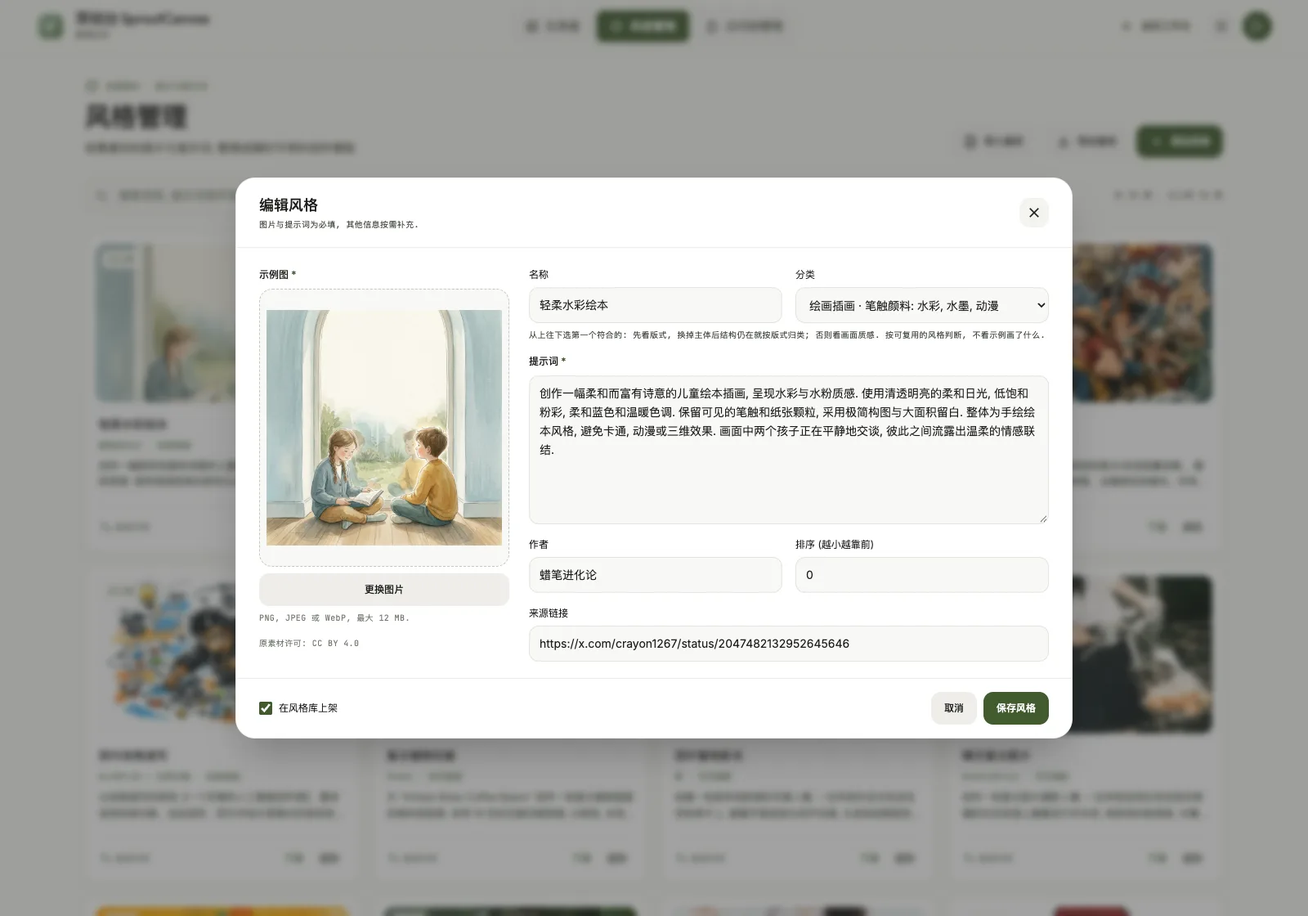
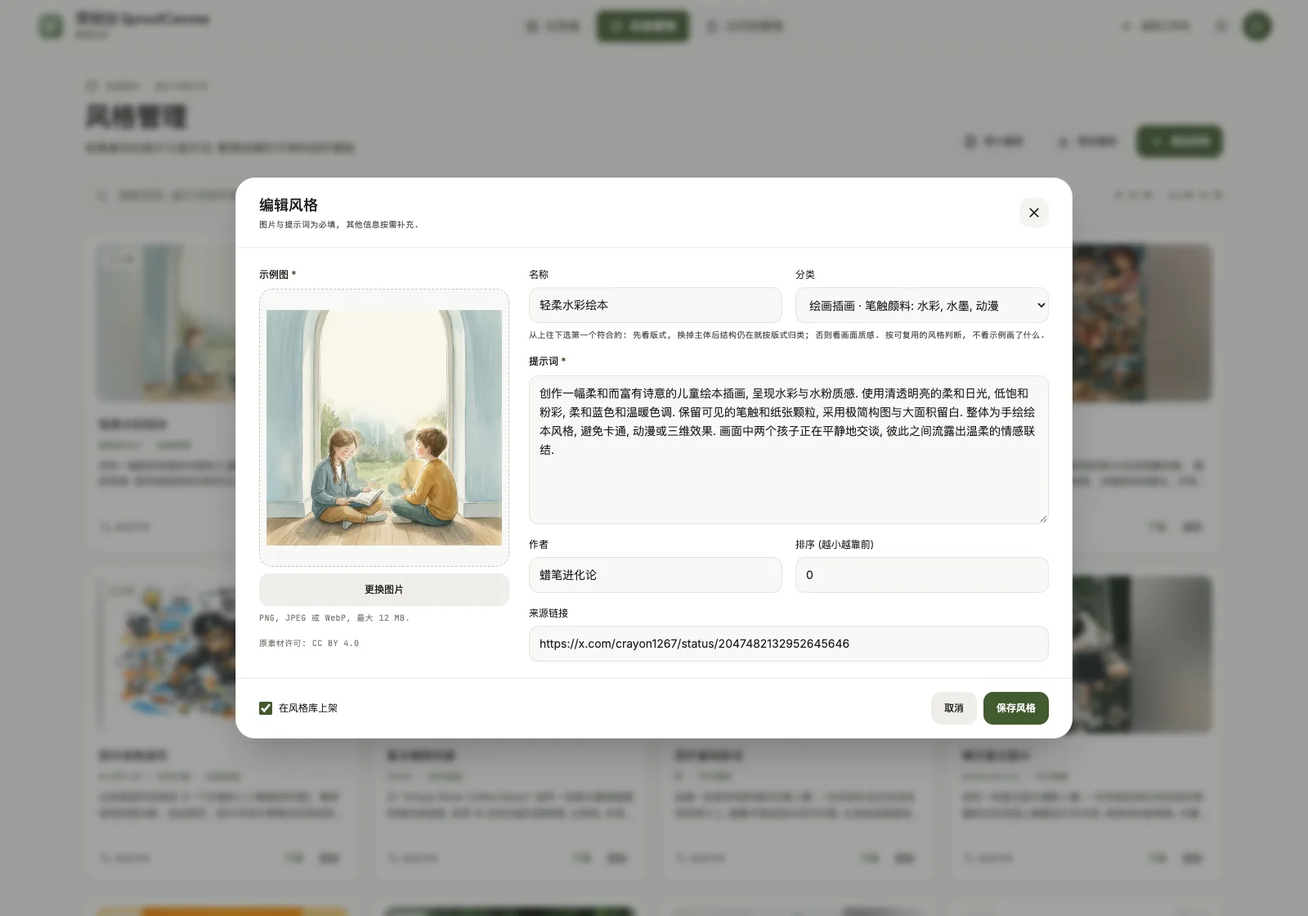
feat: 风格示例图完整显示, 发送单图按示例图匹配画幅
- 风格库与后台卡片保留固定图框, 示例图完整居中且不超过原尺寸, 空白处用同图模糊铺底, 不再裁切或放大
- 发送单图时按示例图宽高选当前通道支持的最接近画幅, 保留尺寸档位并同步请求尺寸, 提示可修改
- 同步帮助文案, 项目约束与文档, 新增竖图显示和画幅匹配的浏览器断言, 重拍 README 风格三图

diff --git a/src/components/shell/HelpDialog.tsx b/src/components/shell/HelpDialog.tsx
@@ -15,7 +15,7 @@ export function HelpDialog({ open, onClose }: { open: boolean; onClose: () => vo
     <div ref={ref} role="dialog" aria-modal="true" aria-label="工作台帮助" className="w-full max-w-2xl max-h-[85vh] overflow-y-auto rounded-2xl bg-surface p-space-lg shadow-xl" onClick={(event) => event.stopPropagation()}>
       <div className="flex items-center justify-between mb-space-lg"><h2 className="font-headline-lg text-headline-lg">工作台帮助</h2><button type="button" aria-label="关闭帮助" onClick={onClose} className="w-8 h-8 rounded-lg hover:bg-surface-container"><StitchIcon name="close" size={20} /></button></div>
       <div className="space-y-space-md text-body-sm leading-relaxed">
-        <section><h3 className="font-medium mb-1">创作与下载</h3><p>描述画面, 或从风格库载入完整提示词后修改. 已选模板会展示示例图与名称, 移除模板关联会保留当前文案. 可多选上传最多 4 张参考图, 单张不超过 12 MiB, 在提示词中按图 1, 图 2 说明用途. 已有图片可继续添加, 或逐张更换和移除. 也可拖入图片或按 ⌘/Ctrl + V 粘贴, 图片按顺序追加到空余位置, 不会覆盖已有素材; 超出数量时整批不添加并提示剩余位置. 按 ⌘/Ctrl + Enter 提交. 文生图和参考图生成可一次生成 1, 2 或 4 张, 队列会逐张执行, 按输出张数使用灵感点.</p></section>
+        <section><h3 className="font-medium mb-1">创作与下载</h3><p>描述画面, 或从风格库载入完整提示词后修改. 已选模板会展示示例图与名称, 画幅自动设为与示例图最接近的比例, 可再修改; 移除模板关联会保留当前文案和画幅. 可多选上传最多 4 张参考图, 单张不超过 12 MiB, 在提示词中按图 1, 图 2 说明用途. 已有图片可继续添加, 或逐张更换和移除. 也可拖入图片或按 ⌘/Ctrl + V 粘贴, 图片按顺序追加到空余位置, 不会覆盖已有素材; 超出数量时整批不添加并提示剩余位置. 按 ⌘/Ctrl + Enter 提交. 文生图和参考图生成可一次生成 1, 2 或 4 张, 队列会逐张执行, 按输出张数使用灵感点.</p></section>
         <section><h3 className="font-medium mb-1">提示词润色</h3><p>短句会补足可画的场景, 构图和光线, 完整提示词只整理表达. 人名, 品牌, 地名, 画面文字和占位符会保留. 完成后请检查内容, 可点击撤销润色回到原文, 再点击恢复润色找回结果, 两边的手工修改都会保留. 当前草稿保存最近一次润色的前后版本, 刷新后仍可切换. 撤销和恢复不消耗灵感点, 已成功的润色不会因撤销退点.</p></section>
         <section><h3 className="font-medium mb-1">局部重绘</h3><p>在作品上选择局部重绘, 自动继承原作品的画幅, 质量与格式. 多图参考时固定编辑第 1 张图片, 其他参考图会保留在草稿中, 不参与本次编辑, 切回参考图生成后恢复. 涂抹需要修改的区域并填写修改要求, 保存蒙版后点击开始局部重绘. 每次生成一个新版本, 原图保留. 如需调整画幅或风格, 切换参考图生成. 清空蒙版会阻止编辑提交, 未涂抹区域仍可能存在模型生成的细节变化.</p></section>
         <section><h3 className="font-medium mb-1">灵感点与访问码</h3><p>有限额度下, 生成图片, 润色提示词和拆解分镜都会使用灵感点, 每次消耗以操作按钮上的点数为准. 提交时先占用点数, 成功后扣除; 明确失败或在开始前取消会返还. 结果暂不明确时同样返还, 但不会自动重新提交, 需要时可手动重新生成.</p><p className="mt-2">共用同一个访问码的人共享名称和余额, 各自浏览器的任务独立. 无限额度不扣减余额, 只在顶部显示无限灵感点, 操作按钮不再重复标注. 用户菜单可查看访问名称, 切换外观和退出当前登录, 退出不会影响其他使用者.</p></section>

diff --git a/src/pages/StyleAdmin.tsx b/src/pages/StyleAdmin.tsx
@@ -1,5 +1,6 @@
 import { useEffect, useRef, useState, type ClipboardEvent, type FormEvent } from 'react';
 import { StitchIcon } from '../components/ui/StitchIcon';
+import { StyleExampleImage } from '../components/image/StyleExampleImage';
 import { AdminEmpty, AdminHeading, AdminLoading, adminButton, adminField, adminPanel } from '../components/admin/AdminUI';
 import { useFocusTrap } from '../hooks/useFocusTrap';
 import { useStyleCatalog } from '../hooks/useStyleCatalog';
@@ -111,7 +112,7 @@ export function StyleManager({ active, editStyleId, onStyleOpened }: { active: b
       {catalog.loading && <AdminLoading label="正在读取风格..." />}
       <div className="grid grid-cols-1 sm:grid-cols-2 lg:grid-cols-3 xl:grid-cols-4 gap-4">
         {items.map((style) => <article key={style.id} className={`admin-style-card relative group ${adminPanel} p-3 flex flex-col hover:border-primary/50 transition-colors`}>
-          <div className="relative aspect-[16/10] shrink-0 rounded-xl overflow-hidden bg-surface-container-low"><img src={style.image} alt={style.name} loading="lazy" className="w-full h-full object-cover group-hover:scale-[1.02] transition-transform duration-200" /><span className="absolute top-2 left-2 px-2 py-1 rounded-lg bg-surface-bright/95 text-secondary font-meta-sm text-meta-sm">{style.published ? '已上架' : '未上架'}</span></div>
+          <div className="relative aspect-[16/10] shrink-0 rounded-xl overflow-hidden bg-surface-container-low"><StyleExampleImage src={style.image} alt={style.name} className="group-hover:scale-[1.02] transition-transform duration-200" /><span className="absolute top-2 left-2 px-2 py-1 rounded-lg bg-surface-bright/95 text-secondary font-meta-sm text-meta-sm">{style.published ? '已上架' : '未上架'}</span></div>
           <div className="min-w-0 flex-1 flex flex-col gap-2 px-1 pt-4"><h2 className="font-body-md text-body-md font-medium line-clamp-2 break-words">{style.name}</h2><p className="font-meta-sm text-meta-sm text-secondary truncate">{style.author || '未注明作者'} · {style.category || '未分类'}</p><p className="font-body-sm text-body-sm text-on-surface-variant line-clamp-2 break-words leading-relaxed mb-3">{style.prompt}</p>
             <div className="flex items-center justify-between gap-2 font-body-sm text-body-sm pt-2 mt-auto border-t border-outline-variant/25"><span className="inline-flex items-center gap-1 text-outline font-meta-sm text-meta-sm"><StitchIcon name="edit_note" size={16} />编辑详情</span><div className="flex items-center gap-1">
               <button type="button" className="relative z-10 px-2 py-2 rounded-lg text-primary hover:bg-secondary-container/50 disabled:opacity-50" disabled={working} onClick={() => void run(async () => { await saveStyle({ ...editInput(style), published: !style.published }, style.id); await catalog.refresh(); setMessage(style.published ? '已下架, 风格库不再展示这条内容' : '已上架'); })}>{style.published ? '下架' : '上架'}</button>

diff --git a/src/pages/StitchCreativeStudio.tsx b/src/pages/StitchCreativeStudio.tsx
@@ -112,8 +112,14 @@ export function CreativeStudio({ onOpenStyles, onOpenGallery, onSubmitBatch, onC
       const transfer = await readWorkspaceDraft<StudioDraft>('studio-transfer');
       if (!alive) return;
       const draft = { ...stored, ...transfer, promptHistory: transfer ? null : readPromptHistory(stored?.promptHistory) };
+      const transferConfig = { ...stored?.config, ...transfer?.config };
+      // A template sets the aspect ratio only; the request size follows it at the size tier the user already chose.
+      if (transfer?.config?.aspectRatio) {
+        const size = resolveSize(transfer.config.aspectRatio, transferConfig.sizeTier || '1K');
+        Object.assign(transferConfig, { requestSize: size.size, sizeHint: size.hint });
+      }
       if (draft.config) setConfig((current) => {
-        const next = { ...current, ...stored?.config, ...transfer?.config, prompt: transfer?.config?.prompt ?? stored?.config?.prompt ?? current.prompt };
+        const next = { ...current, ...stored?.config, ...transferConfig, prompt: transfer?.config?.prompt ?? stored?.config?.prompt ?? current.prompt };
         if (LOCK_UNSUPPORTED_IMAGE_OPTIONS && next.mode !== 'edit') Object.assign(next, LOCKED_IMAGE_DEFAULTS);
         return next;
       });
@@ -128,12 +134,12 @@ export function CreativeStudio({ onOpenStyles, onOpenGallery, onSubmitBatch, onC
       const transferredStyle = transfer?.styleId && transfer.styleId !== 'default' ? transfer.styleName || '提示词模板' : '';
       if (transferredStyle) setMaskEditorOpen(false);
       if (transfer) {
-        await writeWorkspaceDraft('studio', { ...draft, config: { ...stored?.config, ...transfer.config } });
+        await writeWorkspaceDraft('studio', { ...draft, config: transferConfig });
         await writeWorkspaceDraft('studio-transfer', undefined);
       }
       if (alive) {
         setDraftLoaded(true);
-        if (transferredStyle) pushToast('success', `已载入 ${transferredStyle}, 可修改后开始绘制`);
+        if (transferredStyle) pushToast('success', `已载入 ${transferredStyle}, ${transfer?.config?.aspectRatio ? `画幅已按示例图设为 ${transfer.config.aspectRatio}, ` : ''}可修改后开始绘制`);
       }
     })().catch((error) => { if (alive) { setDraftLoaded(true); pushToast('error', error instanceof Error ? error.message : '草稿读取失败'); } });
     return () => { alive = false; };

diff --git a/src/pages/StitchStylesLibrary.tsx b/src/pages/StitchStylesLibrary.tsx
@@ -2,6 +2,7 @@ import { useEffect, useMemo, useRef, useState } from 'react';
 import { useFocusTrap } from '../hooks/useFocusTrap';
 import { useStyleCatalog } from '../hooks/useStyleCatalog';
 import { StitchIcon } from '../components/ui/StitchIcon';
+import { StyleExampleImage } from '../components/image/StyleExampleImage';
 import type { StyleRecord } from '../../shared/style-contract.mjs';
 
 interface StylesLibraryProps {
@@ -84,7 +85,7 @@ export function StylesLibrary({ onUseInStudio }: StylesLibraryProps) {
       <div className={`grid ${compact ? 'grid-cols-2 gap-3 lg:grid-cols-3 lg:gap-space-lg xl:grid-cols-4' : 'grid-cols-1 gap-space-lg sm:grid-cols-2 lg:grid-cols-3'}`}>
         {filtered.map((style) => <article key={style.id} className={`style-card group flex flex-col bg-surface-container-lowest border border-outline-variant/30 rounded-2xl shadow-[0_4px_20px_rgba(85,95,75,0.05)] ${compact ? 'p-3 lg:p-space-md' : 'p-space-md'}`}>
           <button type="button" aria-label={`放大 ${style.name}`} className={`relative w-full aspect-[4/3] overflow-hidden rounded-xl bg-surface-container-low text-left ${compact ? 'mb-3 lg:mb-4' : 'mb-4'}`} onClick={() => setDetail(style)}>
-            <img src={style.image} alt={style.name} loading="lazy" className="w-full h-full object-cover transition-transform duration-300 group-hover:scale-[1.02]" />
+            <StyleExampleImage src={style.image} alt={style.name} className="transition-transform duration-300 group-hover:scale-[1.02]" />
             <span className="absolute top-3 left-3 px-2 py-1 rounded-lg bg-surface-bright/95 text-secondary font-meta-sm text-meta-sm">{style.category || '未分类'}</span>
           </button>
           <h3 className="font-headline-sm text-headline-sm text-on-surface truncate" title={style.name}>{style.name}</h3>

diff --git a/src/app/App.tsx b/src/app/App.tsx
@@ -20,7 +20,7 @@ import { recordReference, writeWorkspaceDraft } from '../lib/storage/gallery-db'
 import { recipeDraft, sourceImageDraft, styleTemplateSnapshot, type StudioDraft } from '../lib/image/recipe';
 import type { StyleRecord } from '../../shared/style-contract.mjs';
 import { GENERATION_DEFAULTS } from '../../shared/generation-contract.mjs';
-import { sizePreset, resolveSize } from '../lib/api/generation';
+import { nearestAspect, sizePreset, resolveSize } from '../lib/api/generation';
 import { randomId } from '../lib/random/id';
 import type { SeriesCard } from '../lib/image/gallery';
 import { isQueueActive } from '../lib/queue-presentation';
@@ -108,14 +108,16 @@ export function App() {
   }, [setPage]);
 
   const useStyle = useCallback(async (style: StyleRecord) => {
+    // Match the frame to the example; standard ratios stay safe until the channel capabilities have loaded.
+    const aspectRatio = nearestAspect(style.imageWidth, style.imageHeight, serverConfig?.imageCapabilities?.customSizes ?? false);
     const draft: StudioDraft = {
-      config: { mode: 'text', prompt: style.prompt, imageCount: 1, refImages: [] },
+      config: { mode: 'text', prompt: style.prompt, imageCount: 1, refImages: [], ...(aspectRatio ? { aspectRatio } : {}) },
       styleId: style.id, styleName: style.name, styleTemplate: styleTemplateSnapshot(style), refImage: null, sourceRecord: null, mask: null, maskDataUrl: '', tone: 'none',
     };
     await writeWorkspaceDraft('studio-transfer', draft);
     setStudioRevision((value) => value + 1);
     setPage('studio');
-  }, [setPage]);
+  }, [setPage, serverConfig]);
 
   const deriveSeries = useCallback(async (card: SeriesCard) => {
     try {

diff --git a/src/lib/api/generation.ts b/src/lib/api/generation.ts
@@ -48,6 +48,14 @@ export function resolveSize(aspectRatio: string, sizeTier: ImageSizeTier = '1K')
 /** Aspect ratios a channel without custom sizes can produce. */
 export const STANDARD_ASPECTS: readonly string[] = ['1:1', '3:2', '2:3', 'auto'];
 
+/** Closest aspect ratio the channel can produce for an example image, compared on a log scale so tall and wide shapes weigh evenly. */
+export function nearestAspect(width: number, height: number, customSizes: boolean): GenerationConfig['aspectRatio'] | null {
+  if (!(width > 0 && height > 0)) return null;
+  const candidates = (customSizes ? Object.keys(SIZE_BY_TIER_AND_RATIO['1K']) : STANDARD_ASPECTS).filter((value) => value !== 'auto');
+  const distance = (value: string) => { const [w, h] = value.split(':').map(Number); return Math.abs(Math.log(width / height) - Math.log(w / h)); };
+  return candidates.reduce((best, value) => distance(value) < distance(best) ? value : best) as GenerationConfig['aspectRatio'];
+}
+
 /** Moves a format or aspect ratio the channel cannot produce back to a supported default; returns `config` itself when nothing changes. */
 export function clampToCapabilities(config: GenerationConfig, capabilities: ImageCapabilities): GenerationConfig {
   const format = capabilities.formats.includes(config.outputFormat as ImageCapabilities['formats'][number]) ? config.outputFormat : capabilities.formats[0];

diff --git a/src/components/image/StyleExampleImage.tsx b/src/components/image/StyleExampleImage.tsx
@@ -1,0 +1,19 @@
+interface Props {
+  src: string;
+  alt: string;
+  /** Extra classes for the full image, such as a hover zoom. */
+  className?: string;
+}
+
+/**
+ * Fills a fixed-ratio, `relative overflow-hidden` frame without cropping or enlarging the example:
+ * the whole image sits centered at no more than its natural size, and a blurred copy covers the margins.
+ */
+export function StyleExampleImage({ src, alt, className = '' }: Props) {
+  return (
+    <>
+      <img src={src} alt="" loading="lazy" className="absolute inset-0 h-full w-full scale-125 object-cover opacity-70 blur-xl" />
+      <img src={src} alt={alt} loading="lazy" className={`absolute inset-0 m-auto max-h-full max-w-full ${className}`} />
+    </>
+  );
+}

diff --git a/AGENTS.md b/AGENTS.md
@@ -103,7 +103,7 @@
 - 从作品进入局部重绘时继承原配方, 固定画幅/质量/背景/格式/压缩率, 使用原通道与原图文件, 不叠加其他画风或隐式缩图. 将参考图生成与局部重绘明确区分, 清空蒙版不得变成整图生成.
 - 在单图参考模式支持粘贴和拖拽追加图片, 与上传共用顺序和数量校验. 不隐式覆盖已有图片, 超量时拒绝整批并提示剩余容量, 图片读取期间防止重复输入. 保留普通文字粘贴与显式更换, 在局部重绘和预览弹窗中阻止参考图追加. 不恢复基础画风快捷项, 风格模板继续来自风格库.
 - 支持最多 4 张参考图, 每张不超过 12 MiB, 按顺序逐张管理并完整保存到草稿/outbox/配方. 从参考图生成切换局部重绘时固定使用第一张图片, 沿用其原参数, 清除旧蒙版, 不自动打开弹窗. 在局部重绘只展示单张原图卡片和绘制/编辑蒙版入口, 不显示多图槽位或原图选择器; 将其余图片保留在草稿中, 切回参考图生成时恢复完整顺序. 取消蒙版编辑时保留进入弹窗前的草稿, 保存后仅提交该原图和蒙版. 未保存蒙版前阻止生成, 按输出张数计费. 保持单份创作草稿, 不引入双模式独立草稿.
-- 在单图提示词下方用紧凑卡片展示模板示例图和名称, 提供更换与移除, 不展示作者, 分类或常驻说明, 不恢复旧名称标签. 在风格库保留作者署名. 保存模板快照, 移除关联保留已编辑文案, 不将示例图自动加入参考图. 在切图工具提供当前完成批次的 ZIP 下载, 保留单张下载, 防止换图或修改参数混用旧批次.
+- 在单图提示词下方用紧凑卡片展示模板示例图和名称, 提供更换与移除, 不展示作者, 分类或常驻说明, 不恢复旧名称标签. 在风格库保留作者署名. 保存模板快照, 移除关联保留已编辑文案, 不将示例图自动加入参考图. 发送单图时按示例图宽高选当前通道支持的最接近画幅, 保留尺寸档位并提示可修改; 不从提示词解析比例, 不新增推荐画幅字段. 在切图工具提供当前完成批次的 ZIP 下载, 保留单张下载, 防止换图或修改参数混用旧批次.
 - 保持系列梗概/分镜剧本统一输入, 从中提取主体要求. 不添加独立主体设定字段, 保留可选参考图和首镜参考链.
 - 取消系列应用场景预设, 根据输入用途和完整程度规划分镜. 对短梗概适度补充, 对完整剧本保留顺序, 品牌, 引用文字, 占位符和限制, 不强套固定题材. 保存分镜的完整换行, 将输入上限设为 16000 字, 每镜提示词上限设为 5000 字. 拆解阶段只分析文字, 不声称已识别参考图.
 - 在系列参考区支持最多 4 张用户参考图, 多选添加, 逐张更换/移除和清空, 每张最多 12 MiB. 与单图参考模式共用粘贴/拖拽追加规则, 已有图片不被覆盖, 超量或读取失败时拒绝整批; 保留普通文字粘贴. 将参考图顺序完整保存到草稿, outbox 和配方. 将首镜或重绘原图作为独立衔接参考追加在用户图片之后, 不截断用户参考图或改变其编号, 按输出张数计费.
@@ -112,6 +112,7 @@
 - 通过 `/api/styles` 读取已上架风格和真实分类数. 仅在首次启动风格库时导入 `server/style-seed/catalog.json` 的 36 款及对应示例图; 更新和重启不得覆盖编辑或恢复删除项.
 - 保持风格录入以图片和完整提示词为必填, 作者可留空, 名称/分类/来源/排序为可选项. 不添加标签, 英文名或独立画风描述. 保留原文, 不自动翻译或追加隐藏画风.
 - 将风格分类固定为 `STYLE_CATEGORIES` 的 7 项下拉, 由管理员手动选择, 不按提示词自动归类. 按决策顺序取第一个符合的: 先看版式 (角色与分镜, 商品广告, 知识图鉴), 换掉主体后结构仍在就按版式归类; 否则看质感 (立体造型, 写实摄影, 平面设计, 绘画插画). 按可复用的风格判断, 不看示例主体. 风格库筛选按此顺序排列; 服务端仍接受备份中的旧分类名并排在固定分类之后, 编辑时标注为旧分类.
+- 风格库与后台风格卡片保留固定比例图框, 示例图完整居中显示且不超过原尺寸, 空白处用同图模糊铺底; 不裁切, 不放大, 不改为瀑布流.
 - 让整张风格卡片打开编辑弹窗, 保留独立上下架/删除动作. 在表单直接展示全部录入字段, 不折叠可选信息; 电脑端使用四列素材卡片.
 - 将仪表盘的灵感点用量和创作次数分别提供今日/本月/累计切换, 用最近 365 天的真实成功结算记录绘制活跃度热力图. 固定按北京时间的结算日期统计, 保留点值/模式快照与已删除码历史; 风格数量和访问码状态展示当前值.
 - 将风格模板仅用于单图创作. 系列从梗概/分镜的画面要求, 可选参考图和首镜参考链保持连贯, 不增加风格库选择入口.

diff --git a/docs/DESIGN.md b/docs/DESIGN.md
@@ -66,7 +66,7 @@
 | 手机顶栏 | 追加 52px 第二行导航, 品牌简写为芽绘台, 队列使用图标和计数, 保留可访问名称 |
 | 单图创作 | 桌面 440px 控制栏 + 24px 间隔 + 最近 4 个创作记录, 两栏随整页滚动, 配置栏不吸顶; 小于 1024px 堆叠为单列 |
 | 系列策划 | 上方 7:5 配置区, 下方分镜 1/2/4 列, 时间轴可横向滚动 |
-| 风格库 | 搜索/分类固定层, 分类单行可横滑. 默认手机 1 列、平板 2 列、电脑 3 列; 紧凑模式手机 2 列、电脑最多 4 列. 复用顶栏/字体, 不展示管理入口 |
+| 风格库 | 搜索/分类固定层, 分类单行可横滑. 默认手机 1 列、平板 2 列、电脑 3 列; 紧凑模式手机 2 列、电脑最多 4 列. 卡片保留 4:3 图框, 示例图完整居中且不超过原尺寸, 空白处用同图模糊铺底; 后台卡片同样处理. 复用顶栏/字体, 不展示管理入口 |
 | 工作台/管理登录 | 复用 64px 品牌顶栏, 纸面底色与共用表单; 桌面采用最大 1040px 的介绍/登录双栏, 小于 1024px 收起介绍区, 表单最大 440px; 使用相同字体, 16px 卡片圆角, 单层输入焦点轮廓, 密码显隐与主题切换, 管理入口额外提供返回工作台 |
 | 管理后台 | 保持独立入口; 复用前台顶栏的品牌和分段导航, 提供仪表盘/风格管理/访问码管理三个入口; 桌面 64px 顶栏, 小于 1024px 将导航放在第二行, 内容最大宽度 1440px |
 | 仪表盘 | 使用 2/3 列真实统计, 365 天活跃度热力图, 整行创作使用和最近风格; 在用量与创作卡片内独立切换今日/本月/累计, 从最近风格直达编辑 |
@@ -111,7 +111,7 @@
 - 通过顶部入口切换参考图生成与局部重绘, 不自动打开弹窗. 切换到局部重绘时固定使用第一张参考图, 以紧凑的单图卡片展示原图缩略图, 文件名, 更换图片和绘制/编辑蒙版按钮, 不展示多图槽位或选择器. 只预览当前编辑原图, 用简短提示说明其余图片已保留; 切回参考模式后恢复完整列表和追加入口. 取消蒙版编辑时保留进入弹窗前的草稿, 未保存蒙版前阻止生成. 沿用单份创作草稿, 不增加双模式独立草稿.
 - 使用真实作品数, 风格数, 时间, 尺寸和队列位次, 不注入示例作品填充用户展馆.
 - 将风格与分类计数绑定到服务端已上架目录, 初始导入 36 款/7 类, 后续按实际录入数量展示. 卡片展示作者, 详情展示来源与素材许可. 预览, 详情, 复制和发送单图使用同一份提示词原文, 保留换行, 不自动翻译.
-- 发送单图后在提示词下方展示紧凑模板卡片, 仅展示示例图和名称, 替换标题旁旧风格标签. 提供更换模板和移除关联, 移除后保留当前文案; 不展示作者, 分类或底部常驻说明, 在风格库保留作者署名. 提示载入成功, 允许修改后再绘制; 退出旧局部编辑并清除参考图和蒙版, 不追加隐藏描述. 取消发送系列入口.
+- 发送单图后在提示词下方展示紧凑模板卡片, 仅展示示例图和名称, 替换标题旁旧风格标签. 提供更换模板和移除关联, 移除后保留当前文案与画幅; 载入时画幅设为与示例图最接近的可用比例, 并在提示中说明可修改; 不展示作者, 分类或底部常驻说明, 在风格库保留作者署名. 提示载入成功, 允许修改后再绘制; 退出旧局部编辑并清除参考图和蒙版, 不追加隐藏描述. 取消发送系列入口.
 - 将管理页的图片与提示词作为主要录入项, 作者可留空; 直接展开名称, 分类, 作者, 来源链接和排序, 不折叠字段. 分类使用 7 项固定下拉, 选项附一句判断提示, 下方一行说明 "先看版式, 再看质感, 取第一个符合的"; 旧备份带来的分类名标注为旧分类. 风格库筛选按决策顺序排列. 保留可选属性, 不新增标签, 英文名和画风描述.
 - 同时支持选择图片, 拖拽和 Cmd/Ctrl + V 粘贴, 保持文本粘贴正常. 保存期间禁用表单, 失败或会话过期后保留当前输入, 重新登录后继续.
 - 在导入前显示新增/更新/相同数量, 经确认后合并, 保留备份外条目. 删除明确提示永久删除和示例图清理.

diff --git a/docs/PRD.md b/docs/PRD.md
@@ -43,7 +43,7 @@
 - 将最近一次润色前后版本与当前草稿一起保存, 提供撤销润色/恢复润色, 切换时保留两侧手工修改, 刷新后继续可用. 连续润色更新最近一次的版本对, 新建创作, 载入模板/作品配方或完成草稿时清理旧历史. 切换版本不调用模型也不扣点, 已成功调用不因撤销返还.
 - 在润色期间只读提示词, 禁用清空, 重复润色与生成, 以植物绿边框流光提示处理中; 结束或失败后恢复编辑. 仅使用外层焦点轮廓, 不显示输入框双边框, 减少动态效果时使用静态描边.
 - 在润色结果与历史成功保存后才结束领取. 保存失败保留原请求, 刷新和润色指令更新后优先按原编号领取, 不重复调用或计费; 检查草稿是否已切换或被其他标签页修改, 不以迟到结果覆盖新内容.
-- 从风格库载入完整提示词原文, 保留模板编号, 名称, 示例图地址, 作者与分类快照. 在提示词下方用紧凑卡片仅展示示例图和名称, 提供更换与移除; 不在创作卡片展示作者, 分类或常驻说明, 在风格库保留作者署名. 移除关联保留当前文案, 刷新保留所选模板. 不追加独立画风描述, 不将示例图自动作为参考图, 不提供渲染调性控件或向提示词注入柔和/明艳后缀.
+- 从风格库载入完整提示词原文, 保留模板编号, 名称, 示例图地址, 作者与分类快照. 在提示词下方用紧凑卡片仅展示示例图和名称, 提供更换与移除; 不在创作卡片展示作者, 分类或常驻说明, 在风格库保留作者署名. 移除关联保留当前文案, 刷新保留所选模板. 载入时按示例图宽高选择当前通道支持的最接近画幅, 保留尺寸档位, 用户可再修改; 不从提示词文字推断比例. 不追加独立画风描述, 不将示例图自动作为参考图, 不提供渲染调性控件或向提示词注入柔和/明艳后缀.
 - 保留风格库作为模板入口, 不恢复基础画风快捷项; 允许用户直接在提示词中描述画风.
 - 一次生成 1/2/4 张时以一个批次原子受理全部任务并预占点数, 保持服务端单 worker. 逐张显示真实状态和结果, 逐项结算.
 - 重试失败画稿时, 让确认入队的新任务接替原占位, 仅显示最新尝试. 在任务历史中保留原失败状态和重试关系, 刷新, 归档完成任务或删除生成作品后不得恢复旧失败卡.

diff --git a/README.md b/README.md
@@ -129,7 +129,7 @@ sc_J3L9sv4YYnhv5lRbzgzA7PK4gwUbzZoc
 - **单图创作**: 文生图, 最多 4 张图片共同参考和提示词润色. 润色支持撤销/恢复并保留手工修改, 参考图可多选上传, 拖拽或粘贴追加, 并逐张管理. 一次提交 1 / 2 / 4 张, 按输出张数使用灵感点, 顺序生成并逐张保存.
 - **蒙版编辑**: 切换到局部重绘时使用第一张参考图, 点击绘制蒙版后涂抹需要修改的区域, 继承原图配方和画幅. 其余参考图保留, 切回参考图生成后可继续使用.
 - **系列策划**: 根据创作需求或完整剧本智能规划 3-8 幕, 不限定应用场景. 支持最多 4 张参考图, 多选上传, 拖拽或粘贴追加, 并逐张管理. 先拆解提示词, 检查后确认生成, 后续分镜结合首镜保持连贯; 支持单镜编辑, 重绘, 版本查看和部分失败续交.
-- **风格库**: 首次启动导入 36 款 / 7 类开源案例, 后续由后台维护, 更新与重启不会覆盖编辑结果. 支持搜索, 分类和原文复制, 发送到单图创作后展示模板示例图与名称, 可修改提示词后生成.
+- **风格库**: 首次启动导入 36 款 / 7 类开源案例, 后续由后台维护, 更新与重启不会覆盖编辑结果. 支持搜索, 分类和原文复制, 发送到单图创作后展示模板示例图与名称, 画幅自动匹配示例图, 可修改提示词和画幅后生成. 卡片完整显示示例图, 不裁切或放大.
 - **独立后台**: 集中维护风格素材, 访问码和灵感点, 通过仪表盘查看活跃度与用量, 在明细中查看每笔流水. 详见 [后台管理](#后台管理).
 - **本地展馆**: 检索单图与系列作品, 放大检视, 复用配方, 下载原图或 ZIP, 使用浏览器支持的系统文件分享.
 - **切图拆分**: 按行列切分图片, 一次将全部切片打包为 ZIP, 也可单张下载或作为参考图继续创作. 在浏览器处理, 不消耗灵感点.

diff --git a/docs/FEATURE_ARCHITECTURE_REVIEW.md b/docs/FEATURE_ARCHITECTURE_REVIEW.md
@@ -444,6 +444,12 @@ flowchart LR
 - [x] 通过 125 项 Node 测试 (新增遗留字段导出/导入用例) 与 TypeScript/Vite 构建, 本机 Chrome 12 个浏览器验收脚本 (报告合计 132 项), 重新构建 `sprout-canvas:verify` 后 Node 22.23.4 独立 Docker 14 项验收. 浏览器验收覆盖下拉选项, 旧分类兼容和筛选顺序.
 - [x] 用隔离服务重拍 README 的风格库, 风格管理和风格编辑三张图.
 
+### 8.22 风格示例图完整显示与画幅匹配, 2026-10-28
+
+- [x] 按用户决定保留风格库 4:3 与后台 16:10 固定图框, 示例图改为完整居中显示且不超过原尺寸, 空白处用同图模糊铺底, 不改为瀑布流或竖向图框. 取代原先铺满裁切的显示: 竖图只能看到一半左右, 小图被放大发虚. 详情弹窗保持完整原图.
+- [x] 发送单图时按示例图宽高在对数比例上选当前通道支持的最接近画幅 (自定义尺寸通道可选全部比例, 其他通道限 1:1/3:2/2:3), 保留用户的尺寸档位并同步请求尺寸, 提示 "画幅已按示例图设为 X, 可修改后开始绘制". 不从提示词解析比例, 不新增推荐画幅字段; 示例图与提示词方向不一致时由用户在单图页修改.
+- [x] 通过 125 项 Node 测试与 TypeScript/Vite 构建, 本机 Chrome 12 个浏览器验收脚本 (报告合计 132 项, 新增竖图完整显示不放大, 1:1/3:4 画幅匹配及请求尺寸断言), 重新构建 `sprout-canvas:verify` 后 Node 22.23.4 独立 Docker 14 项验收. 重拍 README 风格库, 风格管理和风格编辑三张图.
+
 ## 9. 当前剩余验收与处理清单
 
 按已确认需求核对核心功能实现, 不将本地自动测试通过表述为所有设备和真实模型效果均已验收.
